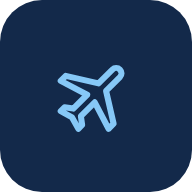
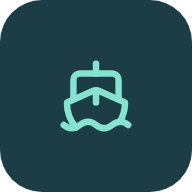
SeaPulse: båtikon i stedet for fly
Claude-Session: https://claude.ai/code/session_01WEdTZgY9C2k7buA9yCdXHV

Changed region(s): [[0.2812, 0.3125, 0.6875, 0.6875]]

diff --git a/public/index.html b/public/index.html
@@ -5,10 +5,10 @@
 <meta name="viewport" content="width=device-width, initial-scale=1, viewport-fit=cover">
 <meta name="theme-color" content="#0a1017">
 <title>SeaPulse</title>
-<link rel="manifest" href="manifest.webmanifest">
-<link rel="icon" type="image/svg+xml" href="icon.svg">
-<link rel="icon" type="image/png" sizes="192x192" href="icon-192.png">
-<link rel="apple-touch-icon" href="apple-touch-icon.png">
+<link rel="manifest" href="manifest.webmanifest?v=2">
+<link rel="icon" type="image/svg+xml" href="icon.svg?v=2">
+<link rel="icon" type="image/png" sizes="192x192" href="icon-192.png?v=2">
+<link rel="apple-touch-icon" href="apple-touch-icon.png?v=2">
 <meta name="apple-mobile-web-app-capable" content="yes">
 <meta name="apple-mobile-web-app-title" content="SeaPulse">
 <link rel="stylesheet" href="vendor/leaflet/leaflet.css">
@@ -317,7 +317,7 @@
 
 <div class="top">
   <div class="topbar">
-  <div class="brand"><div class="lg"><img src="icon.svg" alt="" width="36" height="36" style="display:block;border-radius:9px"></div><div><b>SEAPULSE</b><span>Live AIS-kart</span></div></div>
+  <div class="brand"><div class="lg"><img src="icon.svg?v=2" alt="" width="36" height="36" style="display:block;border-radius:9px"></div><div><b>SEAPULSE</b><span>Live AIS-kart</span></div></div>
   <div class="sbox">
     <svg width="18" height="18" viewBox="0 0 24 24" fill="none" stroke="currentColor" stroke-width="2" stroke-linecap="round"><circle cx="11" cy="11" r="7"/><path d="M20 20l-3.5-3.5"/></svg>
     <input id="q" type="search" placeholder="Søk båt, MMSI eller kallesignal" autocomplete="off">
